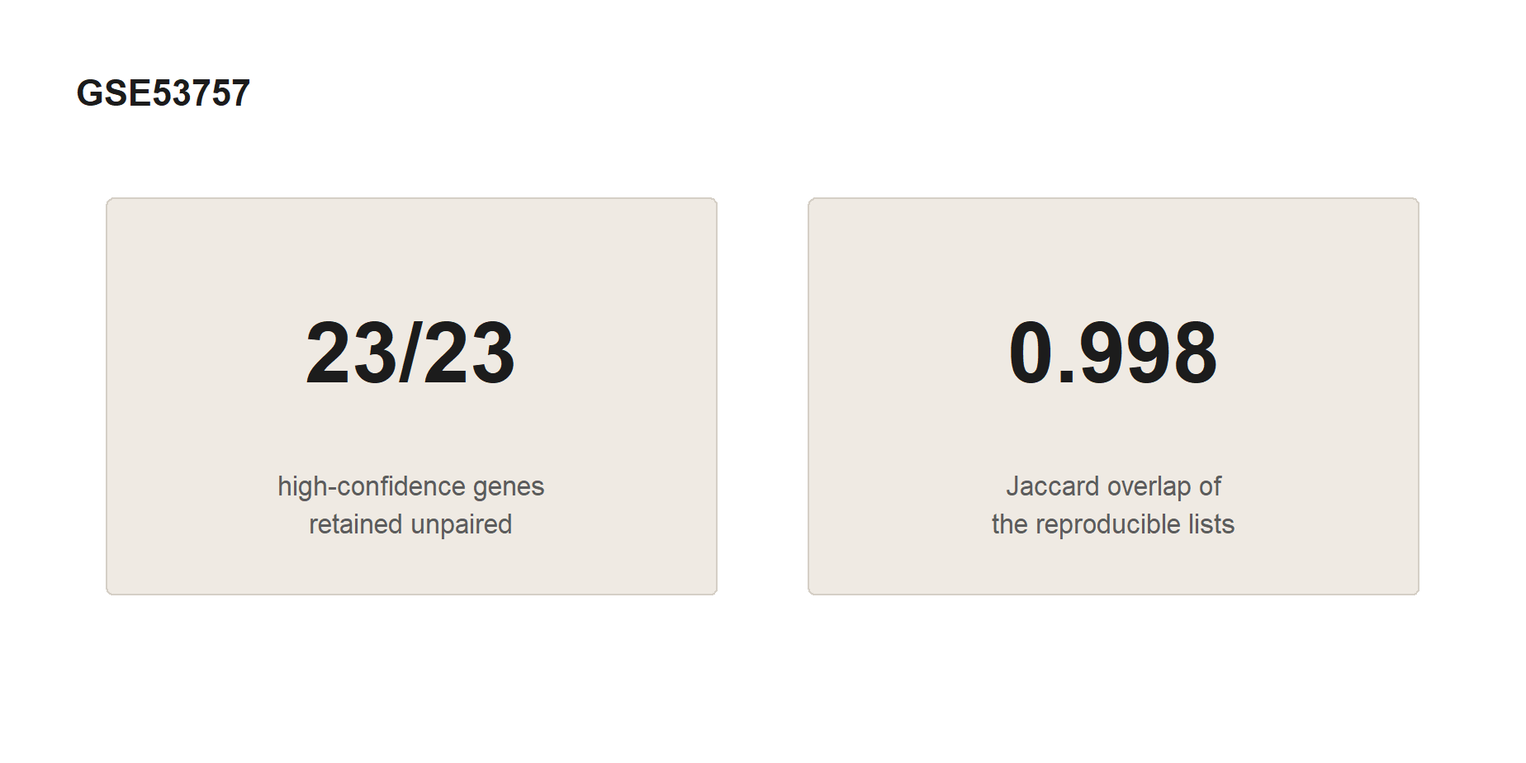
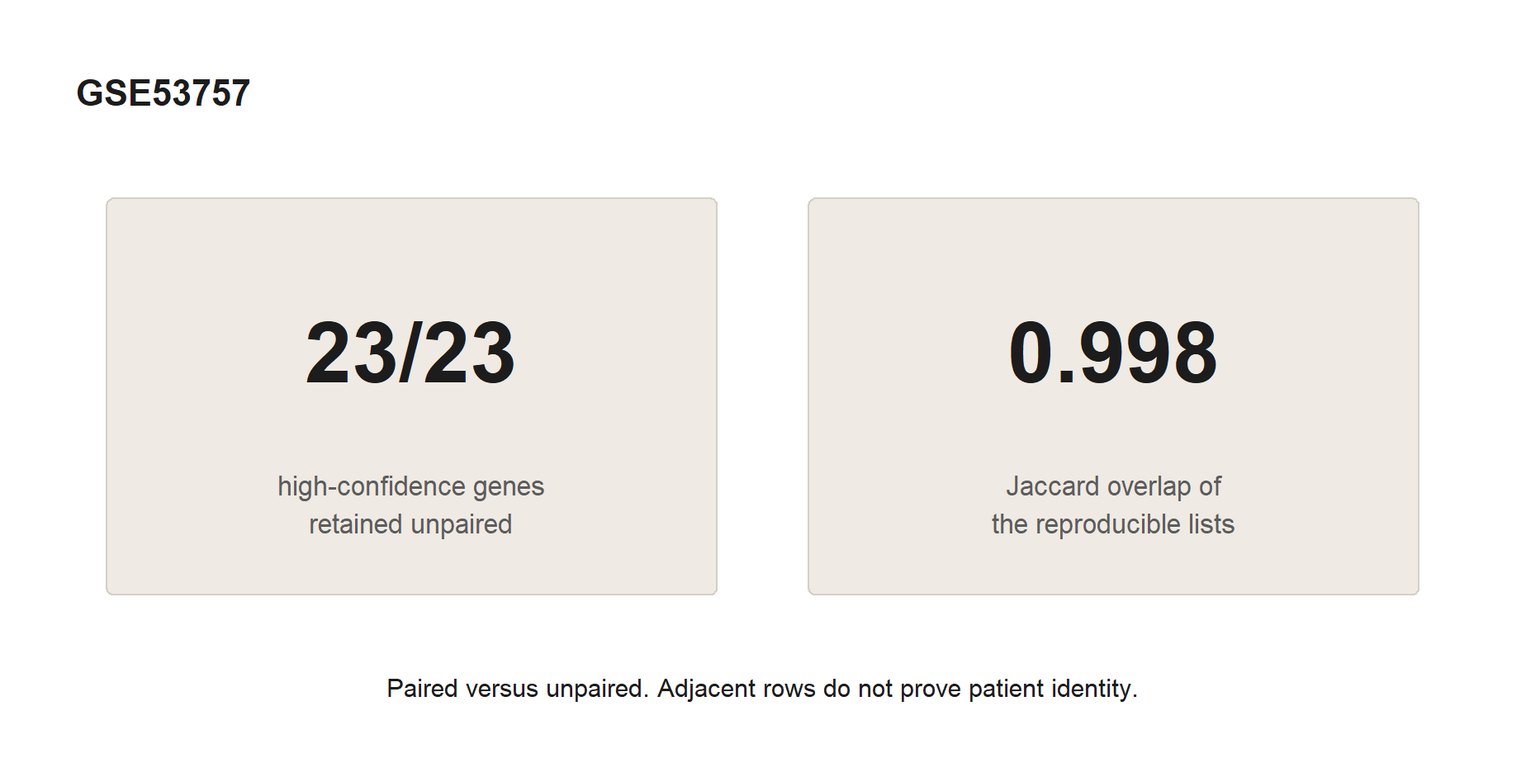
tighten the claims and tables

Changed region(s): [[0.2468, 0.8788, 0.7403, 0.9394]]

diff --git a/paper/main.tex b/paper/main.tex
@@ -17,7 +17,7 @@
 \noindent\textbf{Internal development draft. Not for direct submission.}
 
 \begin{abstract}
-The one-gene rule failed its prespecified test. On the \NestedPatients-patient nested cohort, adding the training-selected gene changed concordance by \NestedDelta\ (patient-bootstrap 95\% interval \NestedCiLow\ to \NestedCiHigh, conditional on the saved out-of-fold predictions). The interval crosses zero, and the increment is below the prespecified +0.01 bar. That failure is not evidence that the \HighGenes\ associations are null.
+The one-gene rule failed its prespecified test. On the \NestedPatients-patient nested cohort, adding the training-selected gene changed concordance by \NestedDelta\ (patient-bootstrap 95\% interval \NestedCiLow\ to \NestedCiHigh, conditional on the saved out-of-fold predictions). The point estimate is \NestedDelta. The interval crosses zero and reaches \NestedCiHigh, so the estimate sits below the prespecified +0.01 bar while the interval does not. That failure is not evidence that the \HighGenes\ associations are null.
 
 A ridge model of the reproducible genes, on those same patients and splits, changed concordance by \BenchRidgeDelta\ (interval \BenchRidgeCiLow\ to \BenchRidgeCiHigh). Preprocessing and $\lambda$ were taken from the outer training fold; the median selected $\lambda$ was \RidgeLambdaMedian. The three-year Brier interval still crossed zero. The ridge arm is not a validated signature, and it was not fit on GSE29609 or E-MTAB-1980. The largest marked bar in the opening figure is this arm. It was not the acceptance test.
 
@@ -26,7 +26,7 @@ The external cohorts disagree, and both were inspected before this reanalysis. G
 
 \begin{center}
 \includegraphics[width=\linewidth]{figures/hydra_evidence_overview.pdf}
-\captionof{figure}{The audit in one flow. Counts run from \OriginalTumorSamples\ tumor aliquots through \TumorPatients\ patients, \PairedPatients\ pairs, \MappedDeg\ mapped genes, \ReproDeg\ reproducible genes, \MainSurvival\ survival associations, \StrictGenes\ strict candidates, and \HighGenes\ high-confidence candidates, to the \NestedPatients-patient nested cohort. The benchmark uses those \NestedPatients\ patients and the same splits. HYDRA and ridge are marked; the other arms are not. The dashed line is the prespecified +0.01 concordance gain. The largest marked change is the ridge arm. It was not the acceptance test, and it is not a validated signature.}
+\captionof{figure}{Evidence-hardening overview. The funnel runs from \OriginalTumorSamples\ tumor aliquots to \HighGenes\ high-confidence candidates. Held-out changes are versus a clinical model. The dashed threshold is the prespecified +0.01 gain for the one-gene acceptance test. That test is the HYDRA arm. Ridge shows held-out ranking information in the reproducible set on these TCGA splits. It does not pass the one-gene test, and it is not a validated signature. External, composition, TRACERx, and CheckMate 025 checks are exploratory.}
 \label{fig:master}
 \end{center}
 
@@ -72,7 +72,7 @@ Figure~\ref{fig:master} is that flow, ending in the held-out benchmark on the sa
 
 \begin{figure}[htbp]
 \centering\includegraphics[width=0.86\linewidth]{../results/figures/gse53757_pairing_sensitivity.png}
-\caption{Paired GSE53757 analysis versus the unpaired sensitivity. The unpaired gate retained \UnpairedHigh\ of \HighGenes\ high-confidence genes. Jaccard overlap of the reproducible lists was \UnpairedJaccard.}
+\caption{Paired GSE53757 analysis versus the unpaired sensitivity. The unpaired gate retained \UnpairedHigh\ of \HighGenes\ high-confidence genes. Jaccard overlap of the reproducible lists was \UnpairedJaccard. Adjacent-row pairing does not prove patient identity.}
 \end{figure}
 
 \begin{figure}[htbp]
@@ -101,7 +101,12 @@ The nested analysis selected no gene in \NestedNoGeneFolds\ of 50 training folds
 \caption{Concordance increment across ten complete outer-CV repeats. The dashed line marks the prespecified 0.01 threshold; the patient-bootstrap interval is reported in text.}
 \end{figure}
 
-On those splits, the benchmark HYDRA arm matched the primary selected gene in every fold and again changed concordance by \BenchHydraDelta\ (interval \BenchHydraCiLow\ to \BenchHydraCiHigh). Survival-only selection, which used \BenchSurvivalGenes\ genes, changed concordance by \BenchSurvivalDelta\ (interval \BenchSurvivalCiLow\ to \BenchSurvivalCiHigh). Differential-expression-only selection concentrated on \BenchDeGenes\ genes and changed concordance by \BenchDeDelta\ (interval \BenchDeCiLow\ to \BenchDeCiHigh). Both left the mean three-year Brier score worse than the clinical model. The expression-matched control, spread across \BenchControlGenes\ genes, changed concordance by \BenchControlDelta\ (interval \BenchControlCiLow\ to \BenchControlCiHigh). The interval sits above zero and remains well below 0.01, so a nonzero lower bound at this size is not a useful gain. Ridge regression kept the training-fold reproducible genes, on average \BenchRidgeGenes\ genes (range \BenchRidgeGenesMin\ to \BenchRidgeGenesMax). Concordance rose by \BenchRidgeDelta\ (interval \BenchRidgeCiLow\ to \BenchRidgeCiHigh), clearing the 0.01 line. The mean Brier difference was \BenchRidgeBrier\ (interval \BenchRidgeBrierCiLow\ to \BenchRidgeBrierCiHigh), so the probability-score improvement is not stable under patient resampling. Calibration slopes were \BenchClinicalSlope\ for the clinical model, \BenchHydraSlope\ after the single HYDRA gene, and \BenchRidgeSlope\ after the ridge model. The eligible set therefore carried held-out ranking information that none of the one-gene rules captured. The increment compares the joint ridge predictor with a separately fit clinical model. It does not partial out the change in the clinical coefficients, and the penalty does not identify which genes carry the gain. Size factors, the log expression, the nonzero training-SD filter, and $\lambda$ were all taken from the outer training fold. The ridge arm is not a validated signature. Because the comparison was specified after the one-gene rule, it does not replace the failed one-gene criterion. It was not evaluated on GSE29609 or E-MTAB-1980, so the concordance gain is a within-TCGA ranking result. ClearCode34, using \ClearcodeGenes\ mapped genes, changed concordance by \ClearcodeDelta\ (interval \ClearcodeCiLow\ to \ClearcodeCiHigh) and the three-year Brier score by \ClearcodeBrier. The calibration slope was \ClearcodeSlope. The interval includes values below zero and below 0.01, so this published score does not meet the prespecified rule either. On E-MTAB-1980, adding the study ccA/ccB label to the limited clinical model changed in-sample concordance by \EmSubtypeDelta\ (interval \EmSubtypeCiLow\ to \EmSubtypeCiHigh). Adding CRYL1 changed it by \EmTopDelta, and the signed panel of \EmPanelGenes\ mapped genes changed it by \EmPanelDelta. Those intervals include zero. The cohort has 23 deaths and was previously inspected.
+On those splits, the benchmark HYDRA arm matched the primary selected gene in every fold and again changed concordance by \BenchHydraDelta\ (interval \BenchHydraCiLow\ to \BenchHydraCiHigh). Survival-only selection, which used \BenchSurvivalGenes\ genes, changed concordance by \BenchSurvivalDelta\ (interval \BenchSurvivalCiLow\ to \BenchSurvivalCiHigh). Differential-expression-only selection concentrated on \BenchDeGenes\ genes and changed concordance by \BenchDeDelta\ (interval \BenchDeCiLow\ to \BenchDeCiHigh). Both left the mean three-year Brier score worse than the clinical model. The expression-matched control, spread across \BenchControlGenes\ genes, changed concordance by \BenchControlDelta\ (interval \BenchControlCiLow\ to \BenchControlCiHigh). The interval sits above zero and remains well below 0.01, so a nonzero lower bound at this size is not a useful gain. Ridge regression kept the training-fold reproducible genes, on average \BenchRidgeGenes\ genes (range \BenchRidgeGenesMin\ to \BenchRidgeGenesMax). Concordance rose by \BenchRidgeDelta\ (interval \BenchRidgeCiLow\ to \BenchRidgeCiHigh), clearing the 0.01 line. The mean Brier difference was \BenchRidgeBrier\ (interval \BenchRidgeBrierCiLow\ to \BenchRidgeBrierCiHigh), so the probability-score improvement is not stable under patient resampling. Calibration slopes were \BenchClinicalSlope\ for the clinical model, \BenchHydraSlope\ after the single HYDRA gene, and \BenchRidgeSlope\ after the ridge model. The eligible set therefore carried held-out ranking information that none of the one-gene rules captured. The increment compares the joint ridge predictor with a separately fit clinical model. It does not partial out the change in the clinical coefficients, and the penalty does not identify which genes carry the gain. Size factors, the log expression, the nonzero training-SD filter, and $\lambda$ were all taken from the outer training fold. The ridge arm is not a validated signature. Because the comparison was specified after the one-gene rule, it does not replace the failed one-gene criterion. It was not evaluated on GSE29609 or E-MTAB-1980, so the concordance gain is a within-TCGA ranking result. ClearCode34, using \ClearcodeGenes\ mapped genes, changed concordance by \ClearcodeDelta\ (interval \ClearcodeCiLow\ to \ClearcodeCiHigh) and the three-year Brier score by \ClearcodeBrier. The calibration slope was \ClearcodeSlope. ClearCode34 is a published comparator, not a rerun of the one-gene acceptance test. Its interval includes zero and values below 0.01, so it does not establish a robust gain of at least 0.01. Table~\ref{tab:benchmark} puts every arm in one place. Table~\ref{tab:ridge} records the ridge specification.
+
+\input{benchmark_table.tex}
+\input{ridge_spec_table.tex}
+
+On E-MTAB-1980, adding the study ccA/ccB label to the limited clinical model changed in-sample concordance by \EmSubtypeDelta\ (interval \EmSubtypeCiLow\ to \EmSubtypeCiHigh). Adding CRYL1 changed it by \EmTopDelta, and the signed panel of \EmPanelGenes\ mapped genes changed it by \EmPanelDelta. Those intervals include zero. The cohort has 23 deaths and was previously inspected.
 
 \begin{figure}[htbp]
 \centering\includegraphics[width=\linewidth]{../results/figures/nested_selection_benchmark.png}
@@ -123,7 +128,7 @@ The matched-list funnel criterion \FunnelPassed. In GSE29609 the complete-minus-
 
 ACADM, CRYL1, and DDC are three evidence profiles, not a ranked set of winners. ACADM is a concordant metabolic association: downregulated in TCGA and both GEO cohorts, with a protective TCGA hazard ratio. CRYL1 has a stronger main-model FDR than ACADM and is the high-confidence gene scored on E-MTAB-1980, because the nested procedure's most frequent gene, CYFIP2, did not map to that array. DDC has a large GEO downregulation and a protective TCGA association, then reverses in GSE29609 at FDR below 0.05. The matrix records the same columns for the other genes. These are candidate associations, not mechanisms or clinical biomarkers.
 
-GSE29609 contained \GsePatients\ patients and \GseEvents\ deaths. It mapped \GseMapped\ primary candidates, of which \GseSame\ retained the TCGA hazard direction; \GseOppositeNominal\ had nominal opposite-direction associations. DDC and TCIRG1 were reversed at FDR below 0.05. E-MTAB-1980 contained \EmPatients\ patients and \EmEvents\ deaths, mapped \EmMapped\ candidates, retained the TCGA direction for \EmSame, and gave \EmStrict\ strict same-direction unadjusted and limited-adjustment FDR results. These cohorts disagree sufficiently that E-MTAB-1980 cannot be described as universal external replication.
+GSE29609 contained \GsePatients\ patients and \GseEvents\ deaths. It mapped \GseMapped\ primary candidates, of which \GseSame\ retained the TCGA hazard direction; \GseOppositeNominal\ had nominal opposite-direction associations. DDC and TCIRG1 were reversed at FDR below 0.05. E-MTAB-1980 contained \EmPatients\ patients and \EmEvents\ deaths, mapped \EmMapped\ candidates, retained the TCGA direction for \EmSame, and gave \EmStrict\ strict same-direction unadjusted and limited-adjustment FDR results. These cohorts do not support a claim of uniform external replication. GSE29609 has \GseEvents\ deaths.
 
 \begin{figure}[htbp]
 \centering\includegraphics[width=0.92\linewidth]{../results/figures/external_direction_comparison.png}
@@ -134,7 +139,7 @@ Matched-patient marker-score adjustment removed FDR support for \CompositionFail
 
 \begin{figure}[htbp]
 \centering\includegraphics[width=0.9\linewidth]{../results/figures/composition_marker_fdr.png}
-\caption{FDR after marker-score adjustment and after consensus-purity adjustment. Triangles mark the six candidates that lose FDR support under the marker scores. The vertical line is 0.05.}
+\caption{Marker-score adjustment and consensus-purity adjustment, shown together. Triangles mark the six genes that lose FDR support under the marker scores: \CompositionFailedSymbols. Consensus purity retains all \HighGenes. The vertical line is 0.05.}
 \end{figure} After correction for 23 tests, \ShapeNonlinear\ nonlinear-expression comparisons and \ShapeTimeVarying\ expression-by-time comparisons had FDR below 0.05. Normal-tissue HPA profiles do not identify ccRCC tumor-cell origin.
 
 \subsection{Spatial sampling and randomized treatment}
@@ -148,11 +153,13 @@ TRACERx linked \TracerxRegions\ primary regions from \TracerxPatients\ patients,
 The CheckMate 025 RNA subset included \CheckmatePatients\ patients (\CheckmateNivolumab\ nivolumab and \CheckmateEverolimus\ everolimus); all \CheckmateCandidates\ candidates were assessed. No expression-by-treatment interaction survived FDR correction for overall or progression-free survival in either the randomized or limited-adjustment model. Nominal interactions remain exploratory and do not establish treatment selection.
 
 \section{Discussion and limitations}
-Four statements cover the audit. The one-gene rule failed: concordance changed by \NestedDelta, the conditional interval crossed zero, and the increment stayed below 0.01. Ridge ranks patients inside these TCGA splits and is not a validated signature. The external cohorts disagree, and both were already inspected, so their agreement is not external validation. None of these results is a clinical action. The broader reproducible transcriptomic space still contains held-out ranking information. Counting each patient once, then repeating differential expression and candidate selection inside held-out folds, changed concordance by \NestedDelta, and the conditional patient-bootstrap interval crossed zero. That is a failure of the prediction criterion. It is not evidence that the \HighGenes\ associations are null, and it is not a deployed signature. The ridge concordance increment of \BenchRidgeDelta\ cleared 0.01 on the same splits. The penalty was training-only, the Brier interval still crossed zero, and the comparison was specified after the one-gene rule, so it does not replace the failed one-gene criterion or freeze a signature. The TRACERx result is \TracerxFixedMedian\% [\TracerxFixedIqrLow--\TracerxFixedIqrHigh] across genes when the \TracerxSubsetPatients\ patients stay fixed, and \TracerxChangingMedian\% [\TracerxChangingIqrLow--\TracerxChangingIqrHigh] when membership is redrawn. The fixed-patient interval reaches 100\% and also falls to \TracerxFixedIqrLow\%. With \TracerxSubsetEvents\ deaths, those draws cannot explain the GSE29609 reversals. Marker-score and consensus-purity adjustment also disagree, so a composition result from one of them is not a composition result from both.
+The one-gene acceptance test failed. The point estimate is \NestedDelta. The patient-bootstrap interval, conditional on the saved predictions, runs from \NestedCiLow\ to \NestedCiHigh: it crosses zero, and its upper end is above 0.01, but the estimate itself is not. That failure does not make the \HighGenes\ associations null. Labels stay in this order: a candidate prognostic association, then external agreement, then held-out discrimination, then a treatment interaction. Prognostic means an association with outcome. A treatment interaction is a separate question, and CheckMate 025 did not support one.
 
-Correcting patient identity changed the shortlist from 27 to \HighGenes\ genes. The four genes that leave under every alternate aliquot rule show that the edge of the high-confidence set is sensitive to how the eight extra aliquots are handled. The unpaired GEO gate did not remove the 23. The permutation null selected a gene in \PermSelected\ of 200 simulations, so scrambled training survival did not pass the high-confidence gate. That count is not a test of the concordance increment. ClearCode34's held-out increment was larger than the one-gene funnel increment, and its conditional interval still included zero and values below 0.01. Conditional coefficient precision and single-gene holdout performance did not translate into a prespecified gain for the complete training-selected procedure: its mean concordance increment was below 0.01, its conditional patient-bootstrap interval crossed zero, and gene identity varied between training folds. This is a failure of the stated prediction criterion, not evidence that every selected association is null. The same-split comparison locates that failure more narrowly. Removing the tumor--normal gate or the survival gate, and adding only the resulting gene, did not improve held-out ranking. Keeping every training-fold reproducible gene in a ridge model did. The concordance gain cleared 0.01 with an interval above zero, while the Brier interval still included a worse score and the calibration slope stayed near the clinical value. The eligible expression set is therefore not empty of ranking information. The one-gene rule did not carry that ranking gain into held-out patients. The ridge fit is not a validated signature: the penalty and the gene set were re-estimated in each training fold, GEO evidence stayed fixed, and the patient bootstrap did not refit that selection or the penalty. The increment also mixes penalized expression with clinical coefficients re-estimated in the same fit. No offset model separates those two pieces, so the analysis does not say which genes produce the ranking gain and does not support a clinical action. The unpaired GSE53757 check kept the high-confidence genes. It does not establish that the adjacent-row identifiers are true patient pairs. The matched-list external comparison likewise failed to show a directional-replication advantage over survival-only ranking. None of these results supports a deployed multigene panel.
+Ridge is not that acceptance test. On the same splits it shows held-out ranking information in the reproducible gene set (\BenchRidgeDelta, interval \BenchRidgeCiLow\ to \BenchRidgeCiHigh). The Brier interval still crossed zero, the gain was not taken outside TCGA, and the penalty does not name a signature. ClearCode34 is a published comparator. Its interval includes zero and values below 0.01. It was not scored as the one-gene rule.
 
-This is a retrospective public-data analysis. GSE29609 has only 17 deaths, E-MTAB-1980 has 23, and both were inspected before this reanalysis; no untouched external patient cohort is available. The ridge concordance gain was not taken to either cohort. The matched-list interval resamples genes even though co-expression can make their directional results dependent, so it is descriptive rather than a confirmatory confidence interval. The 39-patient TRACERx subsets have nine deaths and do not recreate GSE29609's platform or case mix. Consensus purity and bulk marker scores are imperfect composition measures; HPA profiles normal tissue, and tumor single-cell, protein, and functional validation are unavailable. The post hoc CheckMate 025 RNA subset and everolimus comparator do not support a treatment-selection claim. RNA associations cannot establish a mechanism or therapeutic target.
+The external cohorts do not support a claim of uniform external replication. GSE29609, with \GseEvents\ deaths, kept the TCGA direction for \GseSame\ of \GseMapped, and DDC and TCIRG1 reversed. E-MTAB-1980 kept it for \EmSame\ of \EmMapped, with strict support for \EmStrict. Both cohorts had already been inspected. TRACERx agreement across genes was \TracerxFixedMedian\% [\TracerxFixedIqrLow--\TracerxFixedIqrHigh] with patients fixed and \TracerxChangingMedian\% [\TracerxChangingIqrLow--\TracerxChangingIqrHigh] when membership was redrawn. Those subsets have \TracerxSubsetEvents\ deaths. Marker scores and consensus purity disagree. The aliquot edge is \AliquotDrop, \AliquotFirst, and \AliquotSum\ under the three alternate rules, against \HighGenes\ for the deepest library. GRAMD1A, IFFO1, LTB4R, and RBM47 leave under every alternate rule. The unpaired GSE53757 gate kept \UnpairedHigh\ of \HighGenes\ genes (Jaccard \UnpairedJaccard) and does not prove that adjacent rows are patient pairs. None of this is a clinical action.
+
+This is a retrospective public-data analysis, and no untouched external cohort is available. The matched-list interval resamples genes whose results can be dependent, so it is descriptive. Consensus purity and marker scores are imperfect composition measures. Human Protein Atlas profiles describe normal tissue. RNA associations do not establish a mechanism or a therapeutic target.
 
 \section*{Data and reproducibility}
 Public source identifiers, the pinned TRACERx commit, cached-input hashes, and package versions are recorded in the repository. The original retrieval dates for cached inputs are unknown. Core result counts and estimates are generated from result tables by \path{analysis/25_paper_numbers.R} into \path{paper/results_macros.tex}; the pipeline and PDF build are separate reproducible commands. This manuscript is an internal AI-assisted development draft for independent verification before submission.

diff --git a/paper/ridge_spec_table.tex b/paper/ridge_spec_table.tex
@@ -1,0 +1,20 @@
+\begin{table}[htbp]
+\centering
+\small
+\caption{Supplementary Table 2. Ridge specification. This fit is not the one-gene acceptance test. The penalty does not select a gene list.}
+\label{tab:ridge}
+\resizebox{\linewidth}{!}{%
+\begin{tabular}{lp{0.72\linewidth}}
+\toprule
+Item & Definition \\
+\midrule
+Predictor set & training-fold reproducible DEGs with nonzero training standard deviation; penalty factor 1; none are removed by the penalty \\
+L2 penalty & 0 \\
+Inner CV & five event-stratified folds of the training patients only \\
+Lambda selection & lambda.min \\
+Tuning metric & partial-likelihood deviance inside the training fold; not the C-index and not the one-standard-error rule \\
+Training-only preprocessing & outer-training DESeq2 size factors, log2(count / size factor + 1), and the nonzero training-SD gene filter are fixed before cv.glmnet \\
+Unpenalized clinical covariates & age, sex, stage, and grade; penalty factor 0; factor levels from the complete-case cohort; values from the training rows only \\
+\bottomrule
+\end{tabular}}
+\end{table}

diff --git a/paper/evidence_matrix.tex b/paper/evidence_matrix.tex
@@ -2,7 +2,7 @@
 \centering
 \scriptsize
 \setlength{\tabcolsep}{3.5pt}
-\caption{Evidence matrix for the 23 high-confidence candidates. Every row uses the same columns. Bold marks the GSE29609 reversals DDC and TCIRG1. An asterisk marks a gene lost under every alternate aliquot rule. Direction is relative to the TCGA hazard. Nested folds count how often the gene was the selected gene. TRACERx is the fraction of fixed-patient region draws that kept the TCGA direction.}
+\caption{Supplementary Table 1. Evidence matrix for the 23 high-confidence candidates. Every row uses the same columns. Bold marks the GSE29609 reversals DDC and TCIRG1. An asterisk marks a gene lost under every alternate aliquot rule. Direction is relative to the TCGA hazard. Nested folds count how often the gene was the selected gene. TRACERx is the fraction of fixed-patient region draws that kept the TCGA direction.}
 \label{tab:evidence}
 \resizebox{\linewidth}{!}{%
 \begin{tabular}{lrrcccccccrr}

diff --git a/paper/benchmark_table.tex b/paper/benchmark_table.tex
@@ -1,0 +1,17 @@
+\begin{table}[htbp]
+\centering
+\caption{Held-out benchmark on the same 517 patients and splits. Changes are versus a separately fit clinical model. The one-gene acceptance test is the HYDRA row only. Ridge is a description of ranking information in the reproducible set. ClearCode34 is a published comparator. It was not scored against the one-gene acceptance rule.}
+\label{tab:benchmark}
+\begin{tabular}{lrrrr}
+\toprule
+Arm & $\Delta$C & 95\% interval & $\Delta$Brier & Slope \\
+\midrule
+HYDRA & +0.0039 & -0.0081 to +0.0183 & -0.0009 & 0.76 \\
+Survival-only & -0.0011 & -0.0151 to +0.0139 & +0.0029 & 0.71 \\
+DE-only & -0.0015 & -0.0120 to +0.0079 & +0.0025 & 0.81 \\
+Matched control & +0.0019 & +0.0001 to +0.0039 & -0.0006 & 0.86 \\
+ClearCode34 & +0.0129 & -0.0018 to +0.0287 & -0.0046 & 0.83 \\
+Ridge & +0.0257 & +0.0116 to +0.0413 & -0.0063 & 0.87 \\
+\bottomrule
+\end{tabular}
+\end{table}

diff --git a/README.md b/README.md
@@ -8,7 +8,7 @@ HYDRA-ccRCC tests whether genes dysregulated between clear cell renal cell carci
 
 ## What the results say
 
-- The one-gene rule failed. On 517 patients, concordance changed by +0.0039. The interval is conditional on the saved predictions, runs from −0.0088 to +0.0171, and stays below the prespecified +0.01 bar.
+- The one-gene rule failed. On 517 patients, the point estimate is +0.0039. The interval, conditional on the saved predictions, runs from −0.0088 to +0.0171. The estimate is below +0.01. The interval is not. Ridge is a separate benchmark. It does not pass this test.
 - Ridge ranks patients inside these TCGA splits (+0.0257) and is not a validated signature. Its Brier interval crosses zero. It was not taken to GSE29609 or E-MTAB-1980. The largest bar in the figure is not the acceptance test.
 - The external cohorts disagree. GSE29609 is 5/21 in the same direction, and DDC and TCIRG1 reverse. E-MTAB-1980 is 21/22 in the same direction, with 12 strict. Both cohorts were inspected before this reanalysis. That is not external validation.
 - Nothing here is a clinical action. Alternate aliquot rules keep 23, 19, 20, and 19 high-confidence genes. TRACERx agreement across genes is 98.5% [76.6–100] with patients fixed and 86.3% [77.8–93.1] when membership is redrawn, on subsets with nine deaths. The GSE53757 Jaccard of 0.998 does not prove that the adjacent-row pairs are real patients.
@@ -51,7 +51,7 @@ All 32,192 count-QC genes were fit in the age-, sex-, stage-, and grade-adjusted
 
 ### External survival checks
 
-GSE29609 has 39 patients and 17 deaths. Of 23 candidates, 21 mapped, five kept the TCGA hazard direction, none had same-direction nominal support, and four had nominal opposite-direction associations. `DDC` and `TCIRG1` reversed with FDR below 0.05. The small event count limits individual estimates, but these [contradictory results](results/tables/external_survival_gse29609_summary.csv) rule out uniform external replication.
+GSE29609 has 39 patients and 17 deaths. Of 23 candidates, 21 mapped, five kept the TCGA hazard direction, none had same-direction nominal support, and four had nominal opposite-direction associations. `DDC` and `TCIRG1` reversed with FDR below 0.05. The small event count limits individual estimates, but these [contradictory results](results/tables/external_survival_gse29609_summary.csv) do not support a claim of uniform external replication. GSE29609 has 17 deaths.
 
 E-MTAB-1980 has 101 patients and 23 deaths. Of 23 candidates, 22 mapped, 21 kept the TCGA direction, 13 had same-direction FDR support, and 12 met the strict unadjusted and limited-adjustment rule. This [more favorable cohort](results/tables/external_survival_emtab1980_summary.csv) does not cancel the GSE29609 reversals. Both cohorts were inspected before the present rule was finalized and are exploratory. The counts are in [the direction figure](results/figures/external_direction_comparison.png): 5/21 on GSE29609 and 21/22 on E-MTAB-1980, with 12 strict. DDC and TCIRG1 are the GSE29609 reversals.
 
